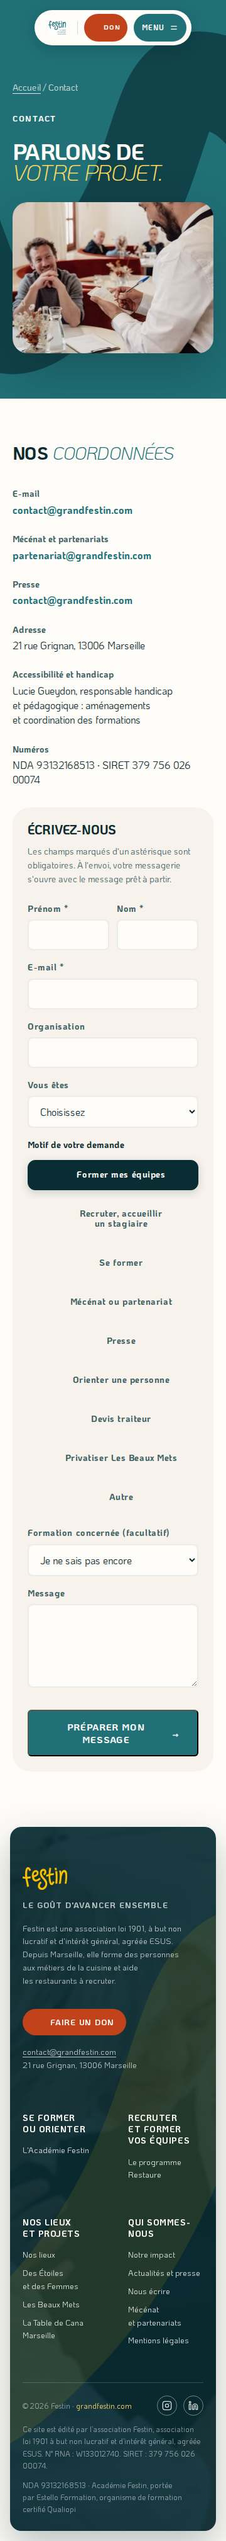
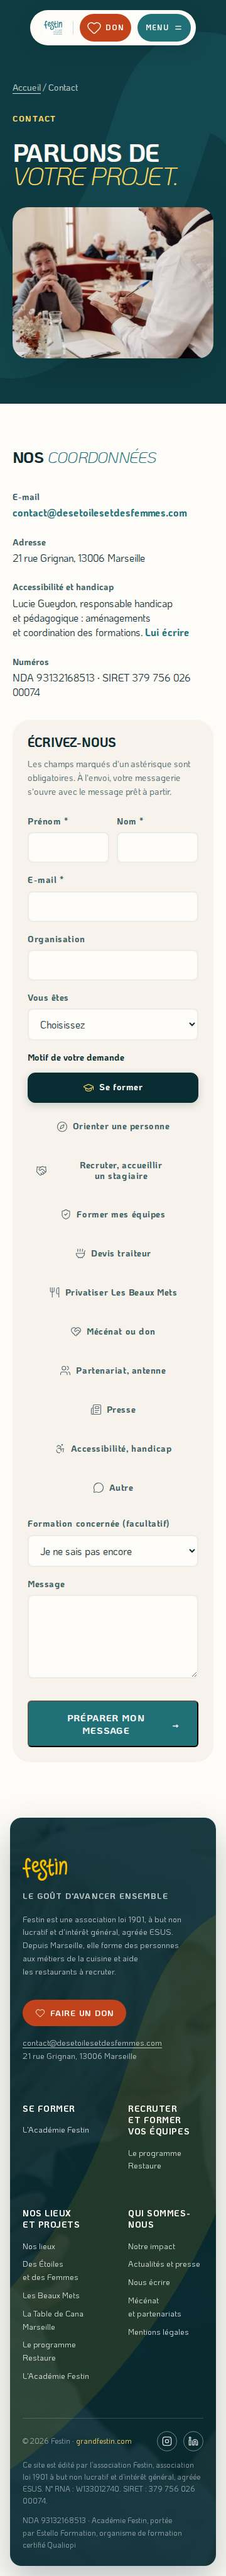
CLAUDE.md à jour des décisions du 05/10 (règle des deux composants horizontaux retirée), captures 360 et 1440 px régénérées, rapport court RAPPORT-RETOURS-AUDIT.md
Claude-Session: https://claude.ai/code/session_01XDSEYC2wQcKYZD2hZfQmdS

diff --git a/CLAUDE.md b/CLAUDE.md
@@ -3,7 +3,7 @@
 Site de l'association Festin (Marseille). Pas de date de sortie : le site sort quand tout est prêt. Ce fichier est lu au début de chaque session : il donne le cadre et ce qui est déjà tranché.
 
 ## Stack et lancement en local
-- React 18 (local, `vendor/`) + JSX **compilé** : `components/*.jsx` → `build/*.js` par `./tools/build.sh` (moteur JavaScript de macOS ; ailleurs, repli automatique sur Node via `tools/build-node.js`, même sortie). **Après toute modification d'un .jsx, lancer `./tools/build.sh`** puis tester ; committer `build/` avec le source. Le navigateur ne charge plus Babel. Routeur : `components/App.jsx`. GSAP 3.15 + ScrollTrigger (local), Lenis. Règle « pas de build » levée le 24/09/2026.
+- React 18 (local, `vendor/`) + JSX **compilé** : `components/*.jsx` → `build/*.js` par `./tools/build.sh` (moteur JavaScript de macOS ; ailleurs, repli automatique sur Node via `tools/build-node.js`, même sortie). **Après toute modification d'un .jsx, lancer `./tools/build.sh`** puis tester ; committer `build/` avec le source. Le navigateur ne charge plus Babel. Routeur : `components/App.jsx`. GSAP 3.15 + ScrollTrigger, Lenis 1.1.13 et Lucide 1.47.0, tous locaux dans `vendor/` (aucune requête externe, 05/10/2026). Règle « pas de build » levée le 24/09/2026. Après une modification de CSS ou de JS, relever les `?v=` correspondants dans `index.html`.
 - Contenus : `window.FESTIN_DATA` dans `data/data.js` (dont `.home`, `.about`, `.stats`) et quelques textes en dur dans `components/*.jsx`. Styles : `styles/_tokens.css` + un CSS par page.
 - Aperçu : `.claude/launch.json`, config « Festin site » (port 4500). macOS bloque le serveur Ruby dans `~/Downloads` : il sert une **copie** dans `/tmp/Site_Festin`. Après chaque modification :
   `rsync -a --delete --exclude .git --exclude .claude --exclude ressources ./ /tmp/Site_Festin/`
@@ -18,7 +18,7 @@ Le design system Claude Design (zip) contient d'anciennes versions des composant
 - Palette (`styles/_tokens.css`). **Tranché le 23 septembre 2026 : les couleurs principales sont celles de la charte 2022** — teal `#217078` (`--teal`), or `#FFC100` (`--gold`). On ne s'en passe pas. Les couleurs 2026 restent disponibles en **déclinaisons d'appoint** : `--teal-secondary` `#1D6B78`, `--gold-secondary` `#E8A825`. Plus corail, violet, crème, ink.
 - **Règle de l'or** : `#FFC100` est illisible en texte sur fond clair (1,47:1) et excellent sur fond sombre (8,97:1). Donc : en **aplat** (bouton, pastille, bande) avec du texte encre par-dessus ; en **texte uniquement sur fond sombre** ; sur fond clair, texte et icônes passent par `--gold-ink` `#8C6A00` (4,55:1 sur crème). Le basculement est automatique via `--accent-color` / `--eyebrow-gold-color` : tout bloc sombre déclare la classe `on-dark` (ou figure dans la liste de sélecteurs de `_tokens.css`).
 - **Titres en capitales**, avec contraste capitales grasses / italique KoHo léger sur le mot clé.
-- Rythme : aplats de couleur alternés. Retenue d'animation : chaque animation sert à révéler, relier ou comparer. Deux composants horizontaux interactifs au plus par page. `prefers-reduced-motion` respecté.
+- Rythme : aplats de couleur alternés. Retenue d'animation : chaque animation sert à révéler, relier ou comparer. `prefers-reduced-motion` respecté. (La règle « deux composants horizontaux interactifs au plus par page » est **supprimée** le 05/10/2026.)
 - Neutraliser la fuite `h1..h3{color:var(--ink)}` de `_tokens.css` sur les blocs colorés.
 - N'invente rien : portrait, photo, témoignage ou chiffre manquant → `[XX]`. Aucun visage généré, aucune photo de stock.
 
@@ -57,10 +57,10 @@ Tics à rationner (une fois par page au plus, jamais en titre, toujours suivis d
 
 ## Déploiement du 24/09/2026 — la grammaire de l'accueil sur tout le site
 - Références : `DIRECTION-ACCUEIL.md` (accueil validé), `AUDIT-DEPLOIEMENT.md` (mesures et décisions), journal `copywriting/09-journal-deploiement.md`.
-- **Un seul rangement : trois missions.** Former (Des Étoiles et des Femmes, Tournesol, Académie Festin) · Accompagner jusqu'à l'emploi (Les Beaux Mets, La Table de Cana) · Changer les cuisines (le programme Restaure). Source unique : `FESTIN_DATA.home.missions` ; `window.missionDe(id)`. Teinte du hero d'un projet selon sa mission : or / teal / teal profond.
+- **Un seul rangement : trois missions.** Former (Des Étoiles et des Femmes, Académie Festin) · Accompagner jusqu'à l'emploi (Les Beaux Mets, La Table de Cana) · Changer les cuisines (le programme Restaure). Source unique : `FESTIN_DATA.home.missions` ; `window.missionDe(id)`. Teinte des heros : voir « Retours sur l'audit (05/10/2026) ».
 - **Couleur** : corps de page sur familles tonales claires (`.g-sec--white|cream|tint|gold`), avec des **touches de couleur assumées** (retours du 25/09/2026) : bandeau or des statuts sur l'accueil, chiffres 2025 en couleur sur teal profond, compteurs en aplats alternés (`window.Compteurs`) sur les pages projet, pastilles d'icônes en couleur dans le menu, frise chronologique en couleur sur l'Association, bloc sombre « Un secteur qui recrute » sur l'Académie, pastille de mission sur les cartes de « Nos projets ». Couleur propre d'un projet : pastille `--pc`, jamais en aplat.
 - **Briques communes** (`components/Gabarit.jsx`, `styles/gabarit.css`) : `GHead`, `Preuves` (chiffres dans des phrases, source dessous), `Portes`, `Appel`, `Cartes`, `Presse`, `Galerie` (avec pause), `MissionsNav`, `ProjetsParMission`, `GVideo`, `GLink`, `useGReveal`. Toute suite d'étapes passe par `window.Frise` (Interactifs.jsx ; `statique` pour les suites courtes).
-- **Pages projet** : un seul composant, `components/ProjetPage.jsx`, piloté par `FESTIN_DATA.projetPages[id]` (faits dans `FESTIN_DATA.projets`). Chaque page a une **nature** (`projetPages[id].nature`) : `formation` (Des Étoiles et des Femmes, Tournesol : « Plus d'informations », porte prescripteur puis cuisine), `lieu` (Les Beaux Mets, La Table de Cana : réserver ou commander, recruter un ancien ; on ne candidate pas aux Beaux Mets ; `orientable` pour La Table de Cana), `programme` (Restaure : ses formations à la place du parcours). Appel final : carte or (`.g-appel`) sur fond blanc. Ordre fixe : hero · en bref · parcours · un bloc propre au plus · témoignages · portes · presse · galerie · projets par mission. Ajouter un projet = une entrée de données, pas un composant.
+- **Pages projet** : un seul composant, `components/ProjetPage.jsx`, piloté par `FESTIN_DATA.projetPages[id]` (faits dans `FESTIN_DATA.projets`). Chaque page a une **nature** (`projetPages[id].nature`) : `formation` (Des Étoiles et des Femmes : « Plus d'informations », porte personne puis cuisine), `lieu` (Les Beaux Mets, La Table de Cana : réserver ou commander, recruter un ancien ; on ne candidate pas aux Beaux Mets ; `orientable` pour La Table de Cana), `programme` (Restaure : ses formations à la place du parcours). Appel final : carte or (`.g-appel`) sur fond blanc. Ordre fixe : hero · en bref · parcours · un bloc propre au plus · témoignages · portes · presse · galerie · projets par mission. Ajouter un projet = une entrée de données, pas un composant.
 - **Double public** (29/09/2026, maquette `maquettes/home-double-cible.html`) : le site parle aux prescripteurs, aux professionnels de la restauration, aux institutions et partenaires. Accueil : hero sobre (« Former les personnes, faire avancer les cuisines. ») avec deux boutons, « Deux publics, un même métier », frise des projets cliquable (`window.JalonsCouleur`, partagée avec l'Association), « Toutes nos formations », chiffres, citation de l'édito, portes.
 - **Navigation** : une seule arborescence, `FESTIN_DATA.arbo` : **Insertion · Professionnels · Nos projets · L'association**, partagée par la pastille, le menu et le pied de page ; `FESTIN_DATA.rubriqueDe(hash)` (adresse exacte d'abord). Page `#/projets` = galerie des projets. Une seule page formations : **L'Académie Festin** (`#/academie`, `#/formations` y mène), filtres Parcours d'insertion / Formations pro. Page Insertion : bloc prescripteurs (`FESTIN_DATA.orienter`, contacts par projet en [À COMPLÉTER]) puis le parcours adressé aux personnes. Page Professionnels : former, recruter, s'engager. (L'option B de `ALLER-PLUS-LOIN.md`, cinq entrées, a été essayée puis écartée le 30/09/2026.)
 - **Archétypes de mise en page (30/09/2026)** : `components/Archetypes.jsx` + `styles/archetypes.css` (préfixe `ar-`) : plein cadre, bloc encarté à accordéon, bande défilante, lignes typées, carte flottante, titre en chevauchement. **Utilisés sur la page Professionnels seulement** : le déploiement sur Insertion, Association et pages projet a été essayé puis écarté le 30/09/2026 (retour de l'utilisatrice). Sur cette page : deux sections voisines ne partagent jamais un archétype ; une signalétique = un sens (numéros réservés aux étapes dans un ordre imposé) ; un dispositif utilisé une seule fois n'en est pas un.
@@ -68,10 +68,10 @@ Tics à rationner (une fois par page au plus, jamais en titre, toujours suivis d
 
 ## Retours de la direction (01/10/2026) — tranché
 - **On parle de « Festin »**, pas de « l'association » (ni « groupe ») dans les titres, le menu et les étiquettes. Le portage associatif est dit **une fois**, dans le bloc « Un projet social, à but non lucratif » de la page Qui sommes-nous : toutes les activités sont des supports d'insertion, menées dans l'intérêt général, portées par une association loi 1901 agréée ESUS ; les bénéfices servent l'insertion des personnes accompagnées. Les mentions légales gardent « association ».
-- **Tournesol n'est pas un projet** : c'est un programme de l'Académie Festin. Il sort de « Nos projets », des missions et du menu ; sa page `#/projets/tournesol` reste, présentée comme « Un programme de l'Académie Festin » (fil d'Ariane vers l'Académie, `projetPages.tournesol.programmeDe`). Festin compte **cinq projets**.
+- **Tournesol n'est pas un projet** : c'est une formation, au même niveau que les autres. Depuis le 05/10/2026, plus de page projet : sa fiche `#/formations/tournesol` (bilan et témoignages) ; `#/projets/tournesol` y redirige. Festin compte **cinq projets**.
 - **Formations pro = marque Restaure**, plus l'Académie : ni Qualiopi ni OPCO sur ces formations. L'Académie ne présente que les parcours d'insertion (`AcaCatalogue seulInsertion`).
 - Formule obligatoire : **« Académie Festin, portée par Estello Formation, organisme de formation certifié Qualiopi »**.
-- **Menu par besoin** : « Se former ou orienter » · « Recruter et former vos équipes » · « Nos lieux et projets » · « Qui sommes-nous » (liens de la pastille visibles à partir de 1200 px).
+- **Menu par besoin** : « Se former » · « Recruter et former vos équipes » · « Nos lieux et projets » (les cinq projets) · « Qui sommes-nous » (liens de la pastille visibles à partir de 1200 px ; « Soutenir Festin » à partir de 1360 px, et dans le menu).
 - **Nos lieux** (`FESTIN_DATA.lieux`, `#/projets/lieux`) : Mourepiane (La Table de Cana Marseille), prison des Baumettes (Les Beaux Mets), Sadi Carnot (au futur, non acquis), le reste de la France (13 antennes de Des Étoiles et des Femmes).
 - **« La Table de Cana Marseille »** comme nom court. Demandes par le formulaire Contact, motif présélectionné par l'adresse : `#/contact/devis-traiteur` (La Table de Cana Marseille), `#/contact/privatisation` (Les Beaux Mets).
 - Impact : « Prix et labels » sans les marchés (Greta, délégations de service public retirés de la frise ; ils restent dans le résumé du rapport 2024).
@@ -94,6 +94,19 @@ Tics à rationner (une fois par page au plus, jamais en titre, toujours suivis d
 - Grand Festin du 3 octobre 2025 : **plus de 600 convives**, plus de 100 bénévoles, 14 brigades.
 - Statuts : ESUS = l'association ; Qualiopi = **Académie Festin seulement** (portée par Estello Formation) ; les formations pro (violences sexistes et sexuelles, management juste & inclusif) sont **proposées par le programme Restaure**, hors Académie, sans Qualiopi ni OPCO (01/10/2026). Pas d'accompagnement RH au-delà du recrutement et des formations (ne pas l'écrire) ; SIRET `379 756 026 00074`, NDA `93132168513`, RNA `W133012740`.
 - Équipe : Iris Hutin, chargée de projet Communication ; Armand Hurault, directeur général ; Camille Lafon, direction du restaurant Les Beaux Mets. Gouvernance affichée (bureau) : Jérôme Schatzman (président), Guillaume Hermitte (trésorier), Virginie Leconte (secrétaire).
+
+## Retours sur l'audit (05/10/2026) — tranché
+Document d'autorité : `RETOURS-AUDIT.md` (il l'emporte sur `AUDIT-CIBLES.md`). Rapport : `RAPPORT-RETOURS-AUDIT.md`.
+- **La personne d'abord** : la porte teal de l'accueil est « Apprendre un métier de cuisine » ; le prescripteur a un bloc court en tête d'Insertion (« Vous orientez une personne ? »). « Ils et elles racontent » sur l'accueil : témoignages déjà publiés, mot pour mot (`home.voix`).
+- **Vocabulaire** : « formations diplômantes » (on ne distingue plus CAP et TFP dans le discours ; les diplômes ne sont nommés que dans le détail des fiches). « Dispositif », jamais « programme », pour Des Étoiles et des Femmes. Une seule fiche : `#/formations/des-etoiles-et-des-femmes` (`tfp` et `cap` y redirigent).
+- **Chaque taux porte son année**, partout. Intitulé harmonisé : « sorties positives » (La Table de Cana 89 % en 2025, 84 % en 2024 ; Les Beaux Mets 86 % en 2025, 82 % en 2023 : deux années, pas une contradiction).
+- **Histoire** : l'association naît en 1987 sous le nom de Départ et prend le nom de Festin en 2022 (dit une fois, sur Qui sommes-nous). 1987 reste la date de création.
+- **Code couleur des heros** : teal = pages adressées aux personnes (Insertion, Académie, Des Étoiles et des Femmes, fiches de formation diplômante) ; or = professionnels (Restaure, fiches pro ; la page Pros garde son hero photo à accents or) ; teal profond = le reste (Qui sommes-nous, Impact, Actualités, Contact, Nos projets, Les Beaux Mets, La Table de Cana).
+- **Soutenir** : bloc « S'engager avec Festin » en fin d'Impact (financer, accueillir, porter une antenne), adresse `#/impact/soutenir`. Pas de page Partenaires.
+- **Adresses** : une table par usage, `FESTIN_DATA.emails` (toutes sur contact@desetoilesetdesfemmes.com pour l'instant ; l'association fournira les autres). Le formulaire présélectionne le motif par l'adresse : `#/contact/<slug>` (se-former, orienter, recruter, former, devis-traiteur, privatisation, mecenat, partenariat, presse, handicap). Pas de téléphone.
+- **Pas de tarifs sur l'accueil** ni sur la page Pros ; « devis » reste autorisé ailleurs, jamais sur une formation gratuite (« Nous contacter »).
+- **Page Pros** : ses archétypes restent chez elle ; trois procédés sont diffusés : micro-étiquettes (`window.ArTags`) sur les cartes de formation et de parcours, une action par carte, bande or des projets cliquable (`FESTIN_DATA.bandeProjets`) en fin de Restaure et de l'Académie.
+- **Densité** : un titre de portes propre à chaque page (plus de « Par où commencer ? » répété) ; l'édito n'est cité que sur Qui sommes-nous ; 83 % et 91 % seulement sur l'accueil, Impact et la page du dispositif ; un témoignage seul s'affiche sans carrousel.
 
 ## Points ouverts
 Voir `copywriting/06-journal-des-changements.md`, section « Encore en `[XX]` » : portraits de l'équipe, témoignages entreprise et financeur, crédits photo, intitulés de Marion Binachon et Fanny Bouvier.

diff --git a/RAPPORT-RETOURS-AUDIT.md b/RAPPORT-RETOURS-AUDIT.md
@@ -1,0 +1,106 @@
+# Rapport : application de RETOURS-AUDIT.md (05/10/2026)
+
+Branche `claude/modest-rubin-fr5kof` (partie de `maquette-pros` = `main`), un commit par chantier, rien de poussé. Contrôles finaux :
+- 29 adresses parcourues, aucun lien mort, aucune ressource introuvable, un seul H1 par page ;
+- axe-core (WCAG 2.1 AA) sans violation à 360 et 1440 px ;
+- aucun défilement horizontal de 360 à 1920 px ;
+- aucune requête externe (Lucide et Lenis sont maintenant dans `vendor/`).
+
+Captures à jour : `captures/<page>-360.jpg` et `-1440.jpg`.
+
+## 1. Ce qui est corrigé
+
+**Accueil**
+- La porte teal devient « Apprendre un métier de cuisine ».
+- Nouvelle section « Ils et elles racontent » : quatre paroles déjà publiées, mot pour mot.
+- Tarifs, catalogue et édito retirés ; la page passe de 17,8 à 13,3 écrans sur mobile.
+- Frise : l'entrée 2026 est reformulée, Tournesol en est retiré.
+- En bas de page, réserver et commander sont séparés du soutien.
+
+**Vocabulaire**
+- « Dispositif » partout pour Des Étoiles et des Femmes.
+- « Formations diplômantes » : plus de CAP ni de TFP dans le discours.
+- 155 h de stage pour Tournesol.
+- Une année à côté de chaque taux.
+- Intitulé « sorties positives » harmonisé (La Table de Cana, Les Beaux Mets).
+- « Départ devient Festin en 2022 » dit une fois, sur Qui sommes-nous.
+
+**Formations**
+- Une seule fiche pour Des Étoiles et des Femmes ; `#/formations/tfp` et `#/formations/cap` y redirigent.
+- Tournesol n'a plus de page projet : sa fiche porte son bilan et ses témoignages, et `#/projets/tournesol` y redirige.
+- Académie :
+  - les formations pro reviennent au catalogue, « portées par le programme Restaure » ;
+  - un filtre vide n'est plus jamais affiché ;
+  - Tournesol est au même rang que les autres formations ;
+  - le bloc des projets en fin de page est retiré.
+- Fiches gratuites : « Nous contacter » au lieu de « Demander un devis ».
+
+**Page Pros**
+- La bande des projets est cliquable.
+- Ajout d'un lien vers Les Beaux Mets.
+- Fin de page : « Devenir partenaire Festin ». Je l'ai préféré à « Se former », parce que la section parle de mécénat et du Grand Festin.
+- Chaque action arrive sur le formulaire avec le bon motif présélectionné.
+
+**Navigation (option A)**
+- Rubriques renommées : « Se former », « Nos lieux et projets » (les cinq projets).
+- Bloc prescripteur en tête d'Insertion (question 1).
+- « S'engager avec Festin » en fin d'Impact, et « Soutenir Festin » dans la pastille et le menu (question 2).
+
+**Coupes et répétitions**
+- Toutes les coupes du tableau sont faites, dont la frise d'Insertion.
+- Un titre de portes propre à chaque page.
+- L'édito n'est plus cité qu'une fois.
+- 83 % et 91 % ne restent que sur l'accueil, Impact et la page du dispositif.
+- Les verbatims de Restaure sont remontés juste après « en bref ».
+
+**Design**
+- Code couleur des heros (question 6).
+- H1 et H2 passent à 40 et 25 px sur mobile.
+- Aucun texte sous 12 px.
+- Contrastes corrigés.
+- Repli « Copier le message » quand la messagerie ne s'ouvre pas.
+- Titres en capitales.
+- Trois procédés de la page Pros diffusés :
+  - micro-étiquettes ;
+  - une action par carte ;
+  - bande or cliquable en fin de Restaure et de l'Académie.
+
+**Adresses**
+- Une table par usage : `FESTIN_DATA.emails`.
+- Toutes les adresses sont contact@desetoilesetdesfemmes.com pour l'instant (question 3).
+
+**Charte**
+- La règle des deux composants horizontaux est retirée de `CLAUDE.md`.
+
+**Une erreur de mon audit, corrigée ici**
+- Les carrousels de témoignages ne sont pas « à un seul élément » : Des Étoiles et des Femmes en a 5, Les Beaux Mets 3, La Table de Cana 3, Tournesol 3.
+- Seul Restaure n'en a qu'un. Il s'affiche maintenant sans carrousel.
+
+## 2. Ce qui reste ouvert
+
+- Les `[À COMPLÉTER]` visibles :
+  - conditions d'entrée à La Table de Cana Marseille ;
+  - année du taux de 86 % de Tournesol ;
+  - année des chiffres France Travail (enquête BMO, relevé des offres) ;
+  - année du taux de récidive de 42 %.
+- Le calendrier : la frise d'Insertion est retirée ; le calendrier réel reste à intégrer quand vous l'aurez.
+- Les photos envoyées le 05/10 : en attente de votre validation (voir la conversation).
+
+## 3. Ce que vous devez fournir
+
+- Les photos de Tournesol à Marseille.
+- Le calendrier réel 2026-2027 des formations diplômantes.
+- Les conditions d'entrée à La Table de Cana Marseille.
+- La source et la date exactes du taux de 86 % de Tournesol.
+- La source de « premier restaurant en prison ouvert au public en France ».
+- Les adresses e-mail par usage (une ligne à changer chacune dans `FESTIN_DATA.emails`).
+- Des témoignages courts de personnes accompagnées pour l'accueil, avec accord écrit.
+- Les 8 portraits manquants, les logos partenaires, les photos du Grand Festin.
+
+## 4. Ce sur quoi je ne suis pas d'accord, ou ce qu'il faut vérifier
+
+1. **« Sorties positives » pour La Table de Cana.** Dans l'insertion par l'activité économique, « sortie dynamique » est un indicateur officiel plus large que « sortie positive ». J'ai harmonisé l'intitulé comme demandé, mais le rapport 2025 devrait dire lequel des deux mesure 89 %.
+2. **Une seule adresse pour tout le site.** Le mécénat, qui allait à partenariat@grandfestin.com, et les demandes pour Les Beaux Mets et La Table de Cana arrivent maintenant dans la boîte du dispositif Des Étoiles et des Femmes. C'est acceptable en attendant, à corriger avant la mise en ligne.
+3. **Le hero de la page Pros** garde sa photo plein cadre, avec des accents or : c'est l'archétype validé le 30/09. Le « or » de la question 6 y est donc moins marqué qu'ailleurs.
+4. **« Porter une antenne »** (bloc S'engager) suppose que Festin accueille de nouvelles antennes : à confirmer par la direction.
+5. **Rien n'est poussé** (`CLAUDE.md` : pas de push sans demande). Dites « pousse » pour obtenir l'aperçu Vercel de la branche.
